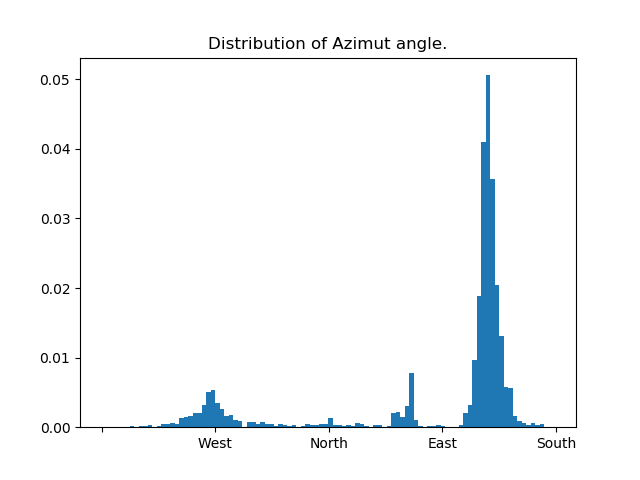
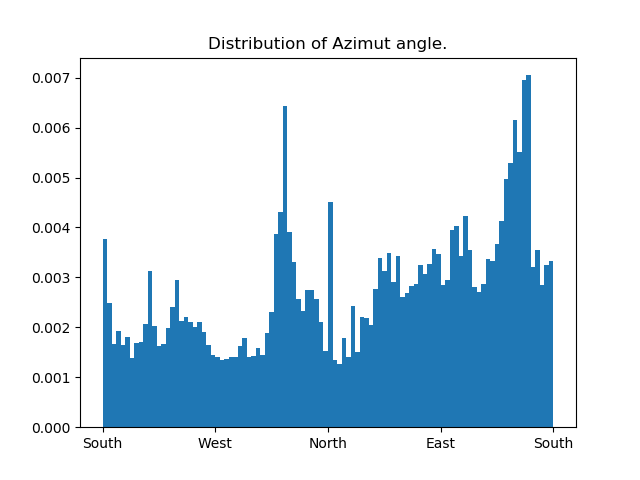
Added results and readme

diff --git a/main.py b/main.py
@@ -8,39 +8,67 @@ def main():
     result = os.path.join(os.getcwd(),'result')
     if not os.path.exists(result):
         os.mkdir(result)
-    files = os.listdir(root)
-    users = 0; id_list = []
-    azimut = [];    pitch = []; roll = []
-    for file in files:
-        id = file.split("_")[0]
-        if not (id in id_list):
-            users += 1
-            id_list.append(id)
-        with open(os.path.join(root,file), 'r') as f:
-            reader = csv.reader(f)
-            for row in reader:
-                azimut.append(float(row[0])*180/np.pi)
-                pitch.append(float(row[1])*180/np.pi)
-                roll.append(float(row[2])*180/np.pi)
+    folders = os.listdir(root)
 
-    print(users)
+    azimut = [];    pitch = []; roll = []
+    azimut_week = [];    pitch_week = []; roll_week = []
+    for folder in folders:
+        file_path = os.path.join(root,folder)
+        files = os.listdir(file_path)
+        users = 0; id_list = []
+        for file in files:
+            id = file.split("_")[0]
+            if not (id in id_list):
+                users += 1
+                id_list.append(id)
+            with open(os.path.join(file_path,file), 'r') as f:
+                reader = csv.reader(f)
+                for row in reader:
+                    azimut.append(float(row[0])*180/np.pi)
+                    pitch.append(float(row[1])*180/np.pi)
+                    roll.append(float(row[2])*180/np.pi)
+                    if folder in ["day1", "day2", "day3", "day4", "day5", "day6", "day7"]:
+                        azimut_week.append(float(row[0])*180/np.pi)
+                        pitch_week.append(float(row[1])*180/np.pi)
+                        roll_week.append(float(row[2])*180/np.pi)
+
+        print("Number of users for {} is: {}".format(folder,users))
+
     plt.figure()
     plt.hist(azimut, density=True, bins=100, label="Azimut")
     plt.title("Distribution of Azimut angle.")
-    plt.xticks([-180,-90,0,90,180], ("", 'West', 'North', 'East', 'South'))
+    plt.xticks([-180,-90,0,90,180], ("South", 'West', 'North', 'East', 'South'))
     plt.savefig(os.path.join(result,'azimut.png'))
 
     plt.figure()
     plt.hist(pitch, density=True, bins=100, label="Pitch")
     plt.title("Distribution of Pitch angle.")
-    plt.xticks([-180,-90,0,90,180], ('-180°','-90°', '0°', '90°', '180°'))
+    plt.xticks([-90,-45,0,45,90], ('-90°','-45°', '0°', '45°', '90°'))
     plt.savefig(os.path.join(result,'pitch.png'))
 
     plt.figure()
-    plt.hist(pitch, density=True, bins=100, label="Roll")
+    plt.hist(roll, density=True, bins=100, label="Roll")
     plt.title("Distribution of Roll angle.")
-    plt.xticks([-90,-45,0,45,90], ('-90°','-45°', '0°', '45°', '90°'))
+    plt.xticks([-180,-90,0,90,180], ('-180°','-90°', '0°', '90°', '180°'))
     plt.savefig(os.path.join(result,'roll.png'))
+
+    plt.figure()
+    plt.hist(azimut_week, density=True, bins=100, label="Azimut")
+    plt.title("Distribution of Azimut angle.")
+    plt.xticks([-180,-90,0,90,180], ("South", 'West', 'North', 'East', 'South'))
+    plt.savefig(os.path.join(result,'azimut_week.png'))
+
+    plt.figure()
+    plt.hist(pitch_week, density=True, bins=100, label="Pitch")
+    plt.title("Distribution of Pitch angle.")
+    plt.xticks([-90,-45,0,45,90], ('-90°','-45°', '0°', '45°', '90°'))
+    plt.savefig(os.path.join(result,'pitch_week.png'))
+
+    plt.figure()
+    plt.hist(roll_week, density=True, bins=100, label="Roll")
+    plt.title("Distribution of Roll angle.")
+    plt.xticks([-180,-90,0,90,180], ('-180°','-90°', '0°', '90°', '180°'))
+    plt.savefig(os.path.join(result,'roll_week.png'))
 
 if __name__ == '__main__':
     main()

diff --git a/README.md b/README.md
@@ -1,0 +1,16 @@
+# Device orientation from mobile application
+
+The code for the android application can be found in the zip file. This code can be adapted to setup a new experiment, for this adaptation have to be made to the backend cause a different server should be used to receive the logger files.
+The main python script includes the code to create three plots of the measured angles: azimuth, pitch and roll.
+
+## Results
+
+The number of users for every day during one week are listed in the table below.
+| | Day 1 | Day 2 | Day 3 | Day 4 | Day 5 | Day 6 | Day 7 |
+| --- | --- | --- | --- | --- | --- | --- | --- |
+|Users | 4 | 5 | 5 | 3 | 3 | 3 | 4 |
+
+Histograms for each angle can also be found below.
+<img src="https://github.com/Maximvda/ML_VLP/blob/deviceOrientation/result/azimut_week.png" width="512">
+<img src="https://github.com/Maximvda/ML_VLP/blob/deviceOrientation/result/pitch_week.png" width="512">
+<img src="https://github.com/Maximvda/ML_VLP/blob/deviceOrientation/result/roll_week.png" width="512">
